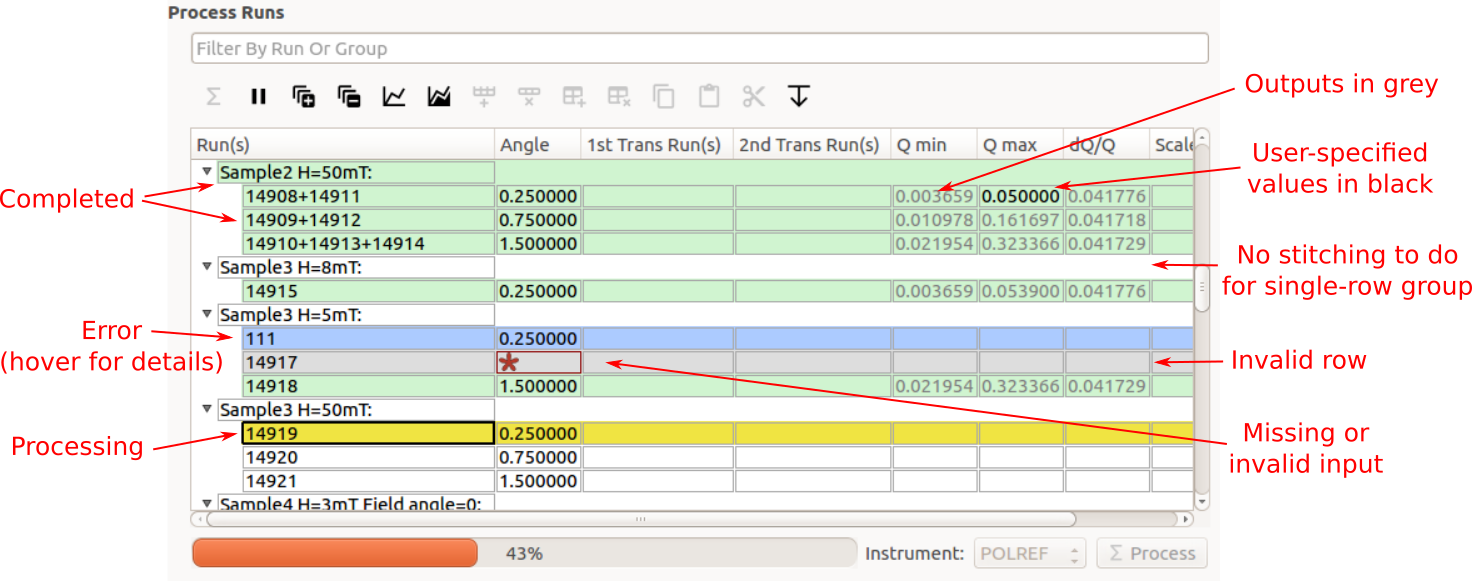
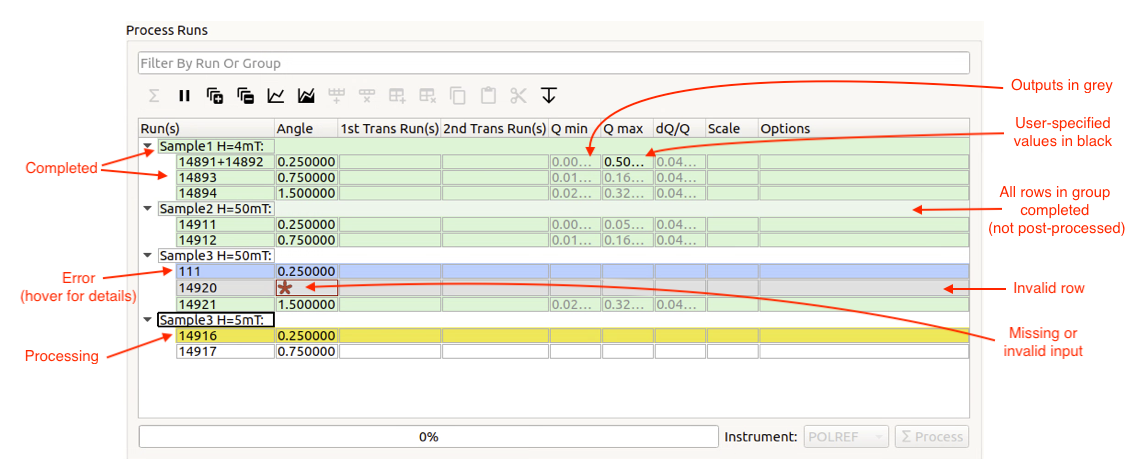
Update refl docs with new functionality
RE #26531

diff --git a/docs/source/interfaces/reflectometry/ISIS Reflectometry.rst b/docs/source/interfaces/reflectometry/ISIS Reflectometry.rst
@@ -273,11 +273,12 @@ selection it will show the percentage of that selection that is complete.
   *The processing table*
 
 Rows or groups that are currently processing will be highlighted in yellow, and
-those that are successfully complete will be highlighted in green. Note that
-groups that only have a single row do not have any stitching to do so will not
-be processed and therefore will not turn green. If processing fails for any
-reason, the row/group will be highlighted in blue and you can over over it to
-see a tooltip displaying the error message.
+those that are successfully complete will be highlighted in green. Groups where
+all of the rows within it are complete, but post-processing has not yet completed,
+will be highlighted in a paler green. Groups with a single row do not need to be
+stitched, so will not be post-processed. If processing fails for any reason, the
+row/group will be highlighted in blue and you can hover over it to see a tooltip
+displaying the error message.
 
 Editing any settings that may change the outputs will reset the state for all
 rows and groups. If any rows are added to or removed from a group, the group's
